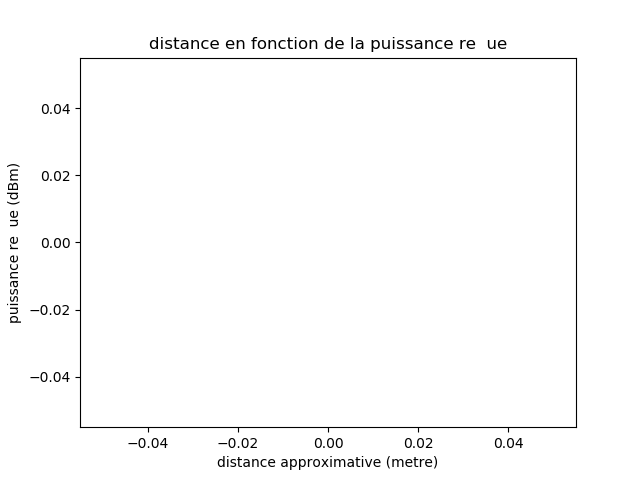
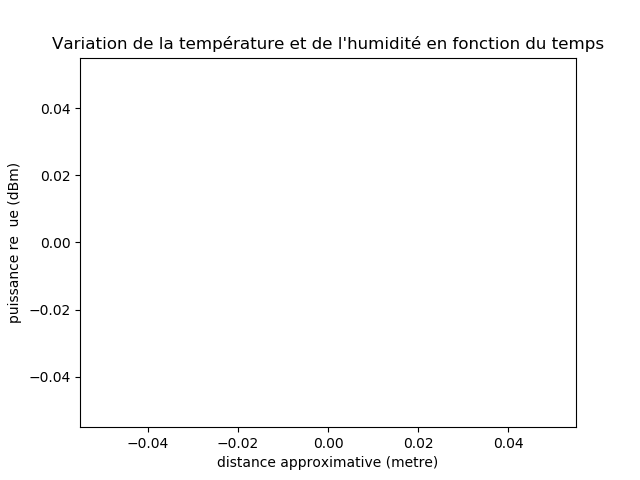
ajout de la mesure toutes les 30 secondes

Changed region(s): [[0.0938, 0.0625, 0.9375, 0.125]]

diff --git a/src/main.py b/src/main.py
@@ -1,18 +1,19 @@
 #!/usr/bin/env python3
 
-#import Adafruit_DHT
+import Adafruit_DHT
 import datetime
 import matplotlib.pyplot as plt
 import numpy as np
+import os
+import time
 
-#sensor = Adafruit_DHT.AM2302
+sensor = Adafruit_DHT.AM2302
 pin = 4
 
 def get_temp_humidity():
     result  = False
     while(result != True):
-        #humidity, temperature = Adafruit_DHT.read_retry(sensor, pin)
-
+        humidity, temperature = Adafruit_DHT.read_retry(sensor, pin)
         # temperature = temperature * 9/5.0 + 32 #Farenheit
 
         if humidity is not None and temperature is not None:
@@ -39,3 +40,27 @@ def enregistrement(temp):
     date = str(datetime.datetime.now())[:-10]
     with open("../data.txt", "a") as fichier:
         fichier.write(str(date) + "," + str(temp) + "\n")
+
+def fichierVersListe(cheminFich):
+    f = open(cheminFich, "r")
+    points = []
+    temperatures = []
+    for line in f:
+        print()
+        points.append(line.split("\n")[0].split(",")[0])
+        temperature.append(float(line.split("\n")[0].split(",")[1]))
+        humidity.append(float(line.split("\n")[0].split(",")[2]))
+    f.close()
+    return [points, temperature, humidity]
+
+
+
+if __name__ == "__main__":
+    main_dir = str(os.path.abspath(__file__))[:-11]
+    #os.system(main_dir + "server.py &")
+
+    for i in range(15):
+        print("in")
+        time.sleep(60)
+        os.system("curl -s '0.0.0.0:5000' > /dev/null")
+    

diff --git a/src/graph.py b/src/graph.py
@@ -10,15 +10,16 @@ def fichierVersListe(cheminFich):
     for line in f:
         print()
         points.append(line.split("\n")[0].split(",")[0])
-        temperatures.append(float(line.split("\n")[0].split(",")[1]))
+        temperature.append(float(line.split("\n")[0].split(",")[1]))
+        humidity.append(float(line.split("\n")[0].split(",")[2]))
     f.close()
-    return [points, temperatures]
+    return [points, temperature, humidity]
 
 data = fichierVersListe("data/data.txt")
 
-plt.title("distance en fonction de la puissance re  ue")
-plt.xlabel("distance approximative (metre)")
-plt.ylabel("puissance re  ue (dBm)")
+plt.title("Variation de la température et de l'humidité en fonction du temps")
+plt.xlabel("Température")
+plt.ylabel("Date/heure")
 plt.plot(data[0],data[1])
 
 plt.savefig("test.png")

diff --git a/server.py b/server.py
@@ -1,11 +1,12 @@
 #!/usr/bin/env python3
 
 from flask import Flask, render_template
+import os
 
 app = Flask(__name__)
 
 @app.route("/")
 def affTemp():
-    return render_template('index.html')#, temp=get_temperature(True), humi=get_humidity())
+    return render_template('index.html'))
 
 app.run(debug=True, host='0.0.0.0', port=5000)

diff --git a/README.md b/README.md
@@ -2,3 +2,4 @@
 
 ## Source et lien utile
 
+https://raspberry-lab.fr/Projets/Courbe-temperature-accessible-avec-un-server-Web-Python/
